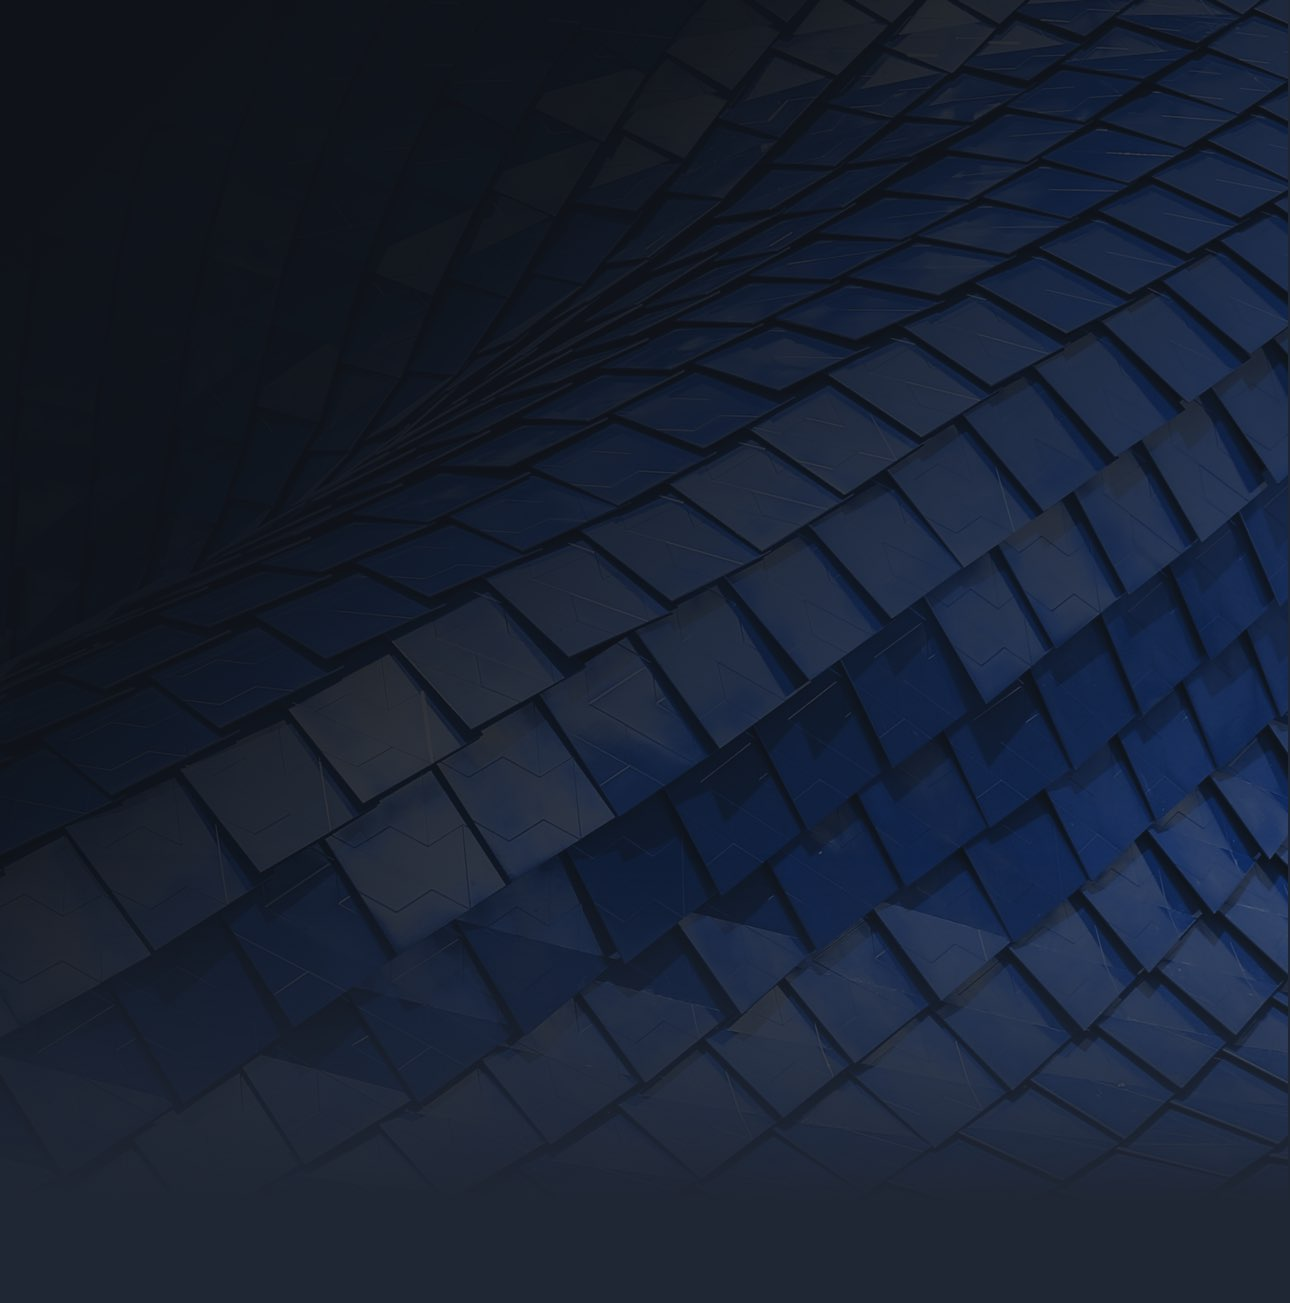
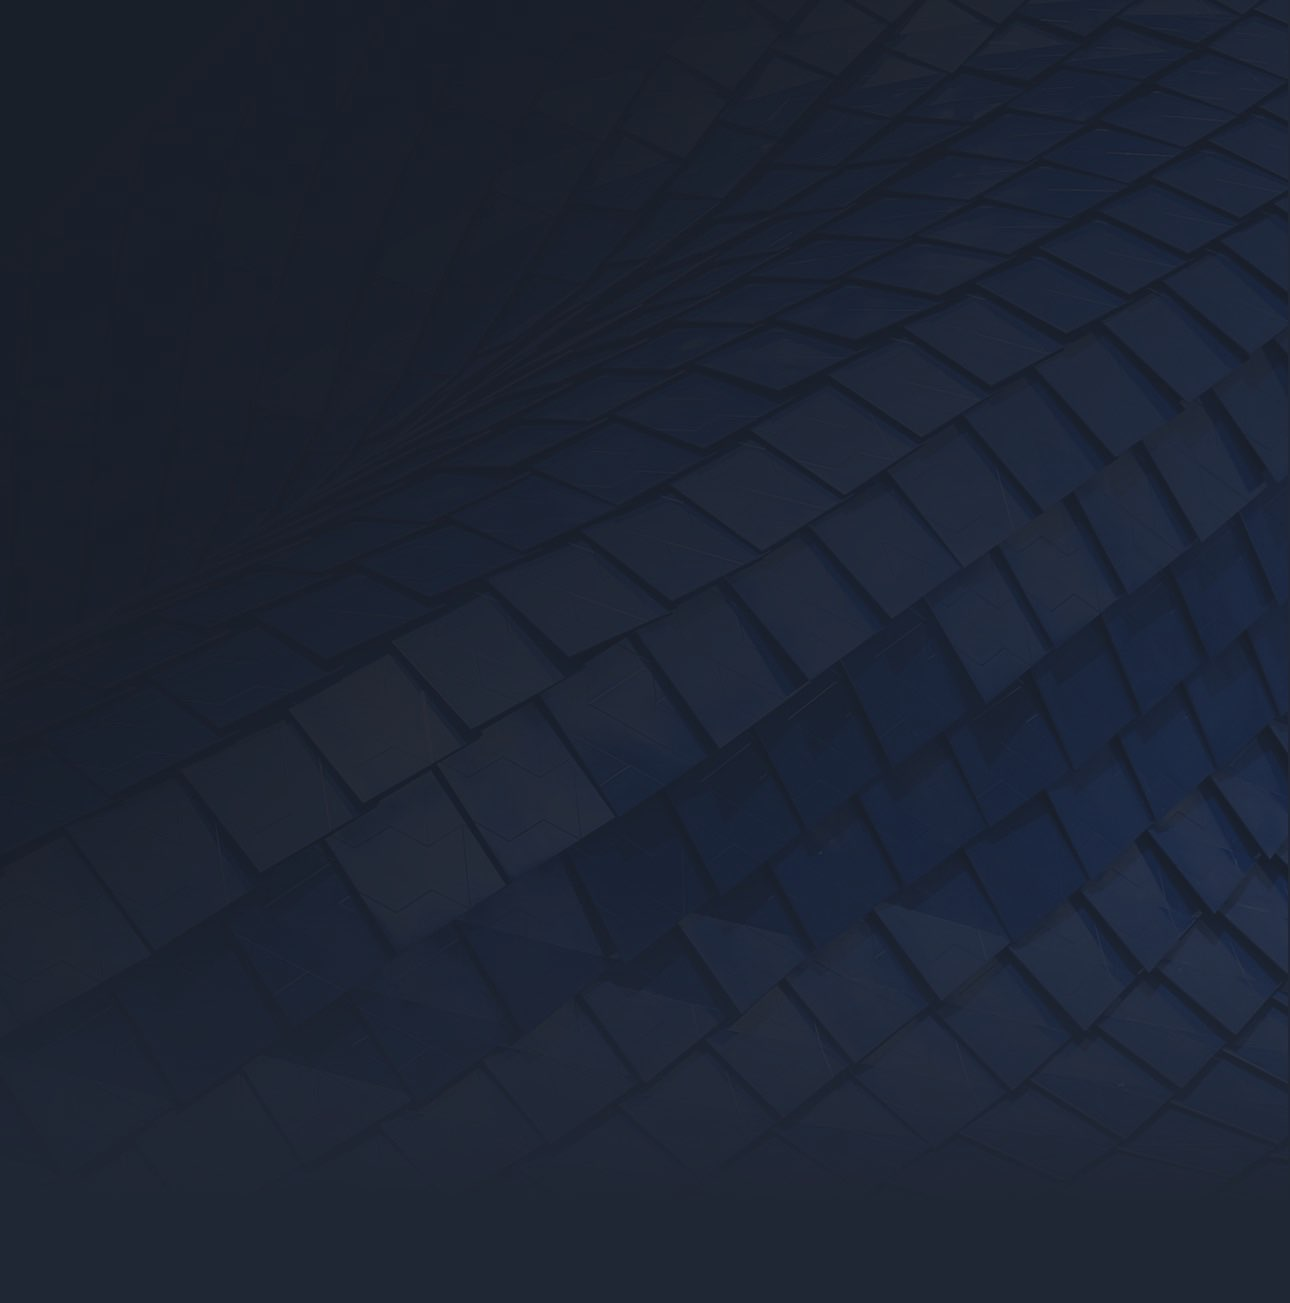
added content to main page, renamed faq to support

Changed region(s): [[0.8062, 0.5526, 1.0, 0.7982], [0.9922, 0.5526, 1.0, 0.5833]]

diff --git a/support/index.html b/support/index.html
@@ -6,11 +6,11 @@
     <link rel="stylesheet" href="https://fonts.googleapis.com/css?family=Work+Sans:300,400,500,600,700">
     <link rel="stylesheet" href="https://unpkg.com/tachyons@4.9.1/css/tachyons.min.css">
     <link rel="stylesheet" href="/style.css?v=3">
-    <title>Zeltrez — F.A.Q.</title>
+    <title>Zeltrez — Support</title>
   </head>
   <body>
 
-    <a href="/"  class="link v-mid mr3 mr6-l absolute top-2 left-2 mt1 z-2">
+    <a href="/" class="link v-mid mr3 mr6-l absolute top-2 left-2 mt1 z-2 dn-m">
       <svg style="width:170px" xmlns="http://www.w3.org/2000/svg" viewBox="0 0 400 38">
         <title>Zeltrez Logo</title>
         <g fill="#F7F7F7" fill-rule="evenodd">
@@ -21,20 +21,19 @@
     </a>
 
     <header class="bg-black-60 w-100 center tc pa4 dn db-ns z-1">
-      <a href="/#about" class="link dib f7 f6-l mr3 mr5-l white-50 hover-white-90 ttu tracked-mega fw1">About</a>
-      <a href="/downloads" class="link dib f7 f6-l mr3 mr5-l white-50 hover-white-90 ttu tracked-mega fw1">Downloads</a>
-      <a href="/faq" class="link dib f7 f6-l mr3 mr5-l white ttu tracked-mega fw1">FAQ</a>
-      <a href="#" class="link dib f7 f6-l mr3 mr5-l white-50 hover-white-90 ttu tracked-mega fw1">Roadmap</a>
-      <a href="#" class="link dib f7 f6-l white-50 hover-white-90 ttu tracked-mega fw1">Support</a>
+      <a href="/#about" class="link dib f7 f6-l mr3 mr4-m mr5-l white-50 hover-white-90 ttu tracked-mega fw2">About</a>
+      <a href="/downloads" class="link dib f7 f6-l mr3 mr4-m mr5-l white-50 hover-white-90 ttu tracked-mega fw2">Downloads</a>
+      <a href="#" class="link dib f7 f6-l mr3 mr4-m mr5-l white-50 hover-white-90 ttu tracked-mega fw2">Roadmap</a>
+      <a href="/support" class="link dib f7 f6-l white ttu tracked-mega fw2">Support</a>
     </header>
 
     <div class="vh-100 w-100 white">
 
       <div class="mw8 center ph3-ns pt5 pt6-l">
         <div class="cf ph2-ns">
-          <div class="fl w-100 w-60-ns pa2">
+          <div class="fl w-100 w-60-l pa2">
             <div class="pv4">
-              <h4 class="fw1 ttu tracked f7 mb0 white-70">Frequently Asked Questions</h4>
+              <h4 class="fw2 ttu tracked-mega f6 mb0 white-70">Frequently Asked Questions</h4>
 
               <h5 class="f4 fw4 mb0">Which coins are supported in Zeltrez?</h5>
               <p class="fw3 white-80 measure mt1 f4">As of <code>1.0.0</code>, we support Zelcash (ZEL), Bitcoin (BTC), Litecoin (LTC), Ethereum (ETH), Zcash (ZEC), BicoinZ(BTCZ), Hush (HUSH), and Ravencoin (RVN).</p>
@@ -114,23 +113,23 @@
               <h5 class="f4 fw4 mb0">How to secure (encrypt/backup) my wallets?</h5>
               <p class="fw3 white-80 measure mt1 f4">The wallet is encrypted and backed up by default. The only state when the wallet is unencrypted is when you are logged on to the wallet. So it's adviseable to quit/exit Zeltrez when you are not using it to allow Zeltrez to encrypt and back-itself-up.</p>
 
-              <h5 class="f4 fw4 mb0">What is the Exchange tab?</h5>
-              <p class="fw3 white-80 measure mt1 f4">Not currently active. ZelDex is being worked on and once it is released easy and simple decentralized exchanging will be enabled, both inside of Zeltrez and online.</p>
+              <h5 class="f4 fw4 mb0">How can I use the exchange feature?</h5>
+              <p class="fw3 white-80 measure mt1 f4">Currently ZelDex is not available on Zeltrez. ZelDex is under development and will be available sometime in Q4 of 2018 - Q1 of 2019. It will be an easy and simple decentralized exchange, which will be available on Zeltrez and a web interface.</p>
 
               <h5 class="f4 fw4 mb0">I forgot my username/password. How can I recover them?</h5>
-              <p class="fw3 white-80 measure mt1 f4">Since we do not store any of your information on our servers, we have no way to recover your account if you forget your username and password. Sorry, our condolences.</p>
+              <p class="fw3 white-80 measure mt1 f4">Zeltrez does not keep a copy of unencrypted password locally nor remotely. Due to this feature, there's no way to retrieve the password nor to change it. When you lose (or forget) either username or password, you will lose access to your wallet PERMANENTLY. Thus it is IMPORTANT and IMPERATIVE that you keep a copy of your information somewhere safe.</p>
 
               <h5 class="f4 fw4 mb0">What is the Apps tab?</h5>
-              <p class="fw3 white-80 measure mt1 f4">Since we do not store any of your information on our servers, we have no way to recover your account if you forget your username and password. Sorry, our condolences.</p>
+              <p class="fw3 white-80 measure mt1 f4">This section is slated to be a decentralized application (dApps) store and sandbox in a future ZelTreZ release. Keep an eye on this section.</p>
 
               <h5 class="f4 fw4 mb0">I still can't find an answer I'm looking for, help!</h5>
               <p class="fw3 white-80 measure mt1 f4">We are happy to help. You can reach us on <a class="link fw4 white hover-light-silver" href="https://discordapp.com/invite/tTpj2Wm" target="_blank" rel="noopener noreferrer">Discord</a>, <a class="link fw4 white hover-light-silver" href="https://twitter.com/zelcash" target="_blank" rel="noopener noreferrer">Twitter</a>, <a class="link fw4 white hover-light-silver" href="https://www.reddit.com/r/ZelCash/" target="_blank" rel="noopener noreferrer">Reddit</a>, or <a class="link fw4 white hover-light-silver" href="mailto:support@zel.cash?Zeltrez+Support">email</a>.</p>
 
             </div>
           </div>
-          <div class="fl w-100 w-40-ns pa2">
+          <div class="fl w-100 w-40-l pa2">
             <div class="pv4">
-              <h4 class="pl4 fw1 ttu tracked f7 mb0 white-70">Contact Us</h4>
+              <h4 class="pl4 fw2 ttu tracked-mega f6 mb0 white-70">Contact Us</h4>
               <div class="card__cell pa4 tc">
                 <a class="card__cell__button link bg-white blue hover-bg-blue hover-white bg-animate db fw6 f5 br2 pa3" href="https://discord.gg/8JpQK9e" target="_blank" rel="noopener noreferrer">
                   <svg class="v-mid" xmlns="http://www.w3.org/2000/svg" width="107" height="29"<title>Discord Logo</title>

diff --git a/index.html b/index.html
@@ -14,11 +14,10 @@
   <body>
 
     <header class="bg-black-60 w-100 center tc pa4 dn db-ns">
-      <a href="/#about" class="link dib f7 f6-l mr3 mr5-l white-50 hover-white-90 ttu tracked-mega fw1">About</a>
-      <a href="/downloads" class="link dib f7 f6-l mr3 mr5-l white-50 hover-white-90 ttu tracked-mega fw1">Downloads</a>
-      <a href="faq" class="link dib f7 f6-l mr3 mr5-l white-50 hover-white-90 ttu tracked-mega fw1">FAQ</a>
-      <a href="#" class="link dib f7 f6-l mr3 mr5-l white-50 hover-white-90 ttu tracked-mega fw1">Roadmap</a>
-      <a href="#" class="link dib f7 f6-l white-50 hover-white-90 ttu tracked-mega fw1">Support</a>
+      <a href="/#about" class="link dib f7 f6-l mr3 mr5-l white-50 hover-white-90 ttu tracked-mega fw2">About</a>
+      <a href="/downloads" class="link dib f7 f6-l mr3 mr5-l white-50 hover-white-90 ttu tracked-mega fw2">Downloads</a>
+      <a href="#" class="link dib f7 f6-l mr3 mr5-l white-50 hover-white-90 ttu tracked-mega fw2">Roadmap</a>
+      <a href="/support" class="link dib f7 f6-l white-50 hover-white-90 ttu tracked-mega fw2">Support</a>
     </header>
 
     <div class="vh-100 w-100 white">
@@ -30,7 +29,7 @@
             <path d="M14.3 7.8V12l9.7 5.6V29l3.5 2 3.6-2V17.7l9.6-5.6V7.8L27.5 0z"/>
           </g>
         </svg>
-        <h3 class="fw1 f5 tracked-mega ttu white-70 mt4">Multi-Asset Encrypted Wallet</h3>
+        <h3 class="fw3 f5 tracked-mega ttu white-70 mt4">Multi-Asset Encrypted Wallet</h3>
       </div>
 
       <!-- Windows -->
@@ -59,34 +58,34 @@
 
       <div class="flex-none flex-l items-center justify-between mt5 mt6-ns" id="about">
         <div class="w-100 pa5 pa4-l pb0 v-mid pl5-l">
-          <img class="shadow-5" src="/zeltrez-portfolio@2x.jpg" alt="Zeltrez Portfolio, support for 8 different coins">
+          <img class="shadow-5" src="/zeltrez-portfolio.jpg" alt="Zeltrez Portfolio, support for 8 different coins">
         </div>
         <div class="w-100 pa5 pt0 pb2 pa3-l pr4-l">
           <h3 class="f3 fw5 mb1">Multi-asset Encrypted Wallet</h3>
-          <p class="white-70 fw3 f4 measure">Good news, everyone! I've taught the toaster to feel love! I'll tell them you went down prying the wedding ring off his cold, dead finger. I was having the most wonderful dream. Except you were there, and you were there, and you were there!</p>
+          <p class="white-70 fw3 f4 measure">Zeltrez keeps your assets safe. With support for 8 coins: Zelcash (ZEL), Bitcoin (BTC), Litecoin (LTC), Ethereum (ETH), Zcash (ZEC), BicoinZ(BTCZ), Hush (HUSH), and Ravencoin (RVN).</p>
         </div>
       </div>
 
       <div class="flex-none flex-l items-center justify-between mt0 mt5-l">
         <div class="w-100 pa5 pa4-l pb0 v-mid pl5-l dn-l">
-          <img class="shadow-5" src="/zeltrez-portfolio@2x.jpg" alt="Zeltrez Portfolio, support for 8 different coins">
+          <img class="shadow-5" src="/zeltrez-login.jpg" alt="Zeltrez login screen">
         </div>
         <div class="w-100 w-80-l pa5 pt0 pb0 pa3-l pl6-l">
-          <h3 class="f3 fw5">Multi-asset Encrypted Wallet</h3>
-          <p class="white-70 fw3 f4 measure">Good news, everyone! I've taught the toaster to feel love! I'll tell them you went down prying the wedding ring off his cold, dead finger. I was having the most wonderful dream. Except you were there, and you were there, and you were there!</p>
+          <h3 class="f3 fw5">Support for Multiple Accounts</h3>
+          <p class="white-70 fw3 f4 measure">Our login system allows you have multiple encrypted wallets and accounts on the same computer.</p>
         </div>
         <div class="w-80 pa4 v-mid dn db-l pr5-l">
-          <img class="shadow-5" src="/zeltrez-portfolio@2x.jpg" alt="Zeltrez Portfolio, support for 8 different coins">
+          <img class="shadow-5" src="/zeltrez-login.jpg" alt="Zeltrez login screen">
         </div>
       </div>
 
       <div class="flex-none flex-l items-center justify-between mt0 mt5-l">
         <div class="w-100 pa5 pa4-l pb0 v-mid pl5-l">
-          <img class="shadow-5" src="/zeltrez-portfolio@2x.jpg" alt="Zeltrez Portfolio, support for 8 different coins">
+          <img class="shadow-5" src="/zeltrez-fullnode.jpg" alt="Zeltrez full node installing">
         </div>
         <div class="w-100 pa5 pt0 pb2 pa3-l pr4-l">
-          <h3 class="f3 fw5 mb1">Multi-asset Encrypted Wallet</h3>
-          <p class="white-70 fw3 f4 measure">Good news, everyone! I've taught the toaster to feel love! I'll tell them you went down prying the wedding ring off his cold, dead finger. I was having the most wonderful dream. Except you were there, and you were there, and you were there!</p>
+          <h3 class="f3 fw5 mb1">Light Node or Full Node. The Choice is Yours.</h3>
+          <p class="white-70 fw3 f4 measure">Zeltrez gives you the power to choose if you want speed or advanced features. All wallets are available as light nodes, with the option to download the Full Node should you required the advanced features like shielded addresses, recovering existing wallets, and much more.</p>
         </div>
       </div>
 

diff --git a/downloads/index.html b/downloads/index.html
@@ -21,18 +21,17 @@
     </a>
 
     <header class="bg-black-60 w-100 center tc pa4 dn db-ns z-1">
-      <a href="/#about" class="link dib f7 f6-l mr3 mr5-l white-50 hover-white-90 ttu tracked-mega fw1">About</a>
-      <a href="/downloads" class="link dib f7 f6-l mr3 mr5-l white ttu tracked-mega fw1">Downloads</a>
-      <a href="/faq" class="link dib f7 f6-l mr3 mr5-l white-50 hover-white-90 ttu tracked-mega fw1">FAQ</a>
-      <a href="#" class="link dib f7 f6-l mr3 mr5-l white-50 hover-white-90 ttu tracked-mega fw1">Roadmap</a>
-      <a href="#" class="link dib f7 f6-l white-50 hover-white-90 ttu tracked-mega fw1">Support</a>
+      <a href="/#about" class="link dib f7 f6-l mr3 mr5-l white-50 hover-white-90 ttu tracked-mega fw2">About</a>
+      <a href="/downloads" class="link dib f7 f6-l mr3 mr5-l white ttu tracked-mega fw2">Downloads</a>
+      <a href="#" class="link dib f7 f6-l mr3 mr5-l white-50 hover-white-90 ttu tracked-mega fw2">Roadmap</a>
+      <a href="/support" class="link dib f7 f6-l white-50 hover-white-90 ttu tracked-mega fw2">Support</a>
     </header>
 
     <div class="vh-100 w-100 white">
 
       <div class="downloads w-100 pt5 pt6-l pa3 center tc">
-        <h3 class="code fw1 ttu tracked f3 mb0">1.0.0</h3>
-        <h4 class="fw1 ttu tracked f7 mb0 white-50">Last Updated: May 24th, 2018</h3>
+        <h3 class="code fw2 ttu tracked f3 mb0">1.0.0</h3>
+        <h4 class="fw2 ttu tracked f7 mb0 white-50">Last Updated: May 24th, 2018</h3>
 
         <div class="flex-none flex-l items-center justify-between mt4 mw8 center">
 
@@ -96,18 +95,18 @@
 
       <div class="mw6 center mt5 mb5 tl">
 
-        <h4 class="fw1 ttu tracked f7 mb0 white-70">1.0.0 Release Notes</h4>
+        <h4 class="fw2 ttu tracked f7 mb0 white-70">1.0.0 Release Notes</h4>
         <p>Bugs Fixed</p>
-        <ul class="list white-70 fw1 pl0">
+        <ul class="list white-70 fw2 pl0">
           <li>- Fixed first copy issue</li>
           <li>- Fixed error when important operations where stored as still ongoing eventhough they already finished</li>
         </ul>
 
         <hr class="mt5 mb5 o-20">
 
-        <h4 class="fw1 ttu tracked f7 mb0 white-70">0.9.10 Release Notes</h4>
+        <h4 class="fw2 ttu tracked f7 mb0 white-70">0.9.10 Release Notes</h4>
         <p>Bugs Fixed</p>
-        <ul class="list white-70 fw1 pl0">
+        <ul class="list white-70 fw2 pl0">
           <li>- Cancel setup was left in development mode</li>
           <li>- Placement correction for Full Node in coin overview</li>
           <li>- Install section info corrected</li>
@@ -118,7 +117,7 @@
           <li>- Changes were sometimes not displayed due to users slow internet connection</li>
         </ul>
         <p>Features</p>
-        <ul class="list white-70 fw1 pl0">
+        <ul class="list white-70 fw2 pl0">
           <li>- User avatar is now in circle, hidding username in sidepanel</li>
           <li>- Coin overview, amount, install section is now blurred</li>
           <li>- Selecting texts/items is disabled</li>
@@ -129,16 +128,16 @@
 
         <hr class="mt5 mb5 o-20">
 
-        <h4 class="fw1 ttu tracked f7 mb0 white-70">0.9.8 Release Notes</h4>
+        <h4 class="fw2 ttu tracked f7 mb0 white-70">0.9.8 Release Notes</h4>
         <p>Bugs Fixed</p>
-        <ul class="list white-70 fw1 pl0">
+        <ul class="list white-70 fw2 pl0">
           <li>- Grammar Fixes</li>
           <li>- Ethereum fee and name</li>
           <li>- Added back button in Full Node Mode</li>
           <li>- Please report any bugs you find in our Discord</li>
         </ul>
         <p>Features</p>
-        <ul class="list white-70 fw1 pl0">
+        <ul class="list white-70 fw2 pl0">
           <li>- Added tooltips</li>
           <li>- Added Help info page</li>
           <li>- Added Exchange info page</li>
@@ -148,15 +147,15 @@
 
         <hr class="mt5 mb5 o-20">
 
-        <h4 class="fw1 ttu tracked f7 mb0 white-70">0.9.7 Release Notes</h4>
+        <h4 class="fw2 ttu tracked f7 mb0 white-70">0.9.7 Release Notes</h4>
         <p>Bugs Fixed</p>
-        <ul class="list white-70 fw1 pl0">
+        <ul class="list white-70 fw2 pl0">
           <li>- Accounts files created correctly</li>
           <li>- Support for copy, paste, and dragging on MacOS</li>
           <li>- Avatar, background fix</li>
         </ul>
         <p>Features</p>
-        <ul class="list white-70 fw1 pl0">
+        <ul class="list white-70 fw2 pl0">
           <li>- New logo</li>
           <li>- Back button</li>
           <li>- Minimize, maximize, drag buttons</li>

diff --git a/style.css b/style.css
@@ -3,7 +3,12 @@ html {
   -webkit-background-size: cover;
   -moz-background-size: cover;
   -o-background-size: cover;
-  background-size: cover;
+  background-size: scroll;
+}
+
+/* fix background on mobile devices */
+@media only screenand (min-device-width : 768px) and (max-device-width : 1024px)  {
+   html { background-attachment: scroll !important; }
 }
 
 body {
